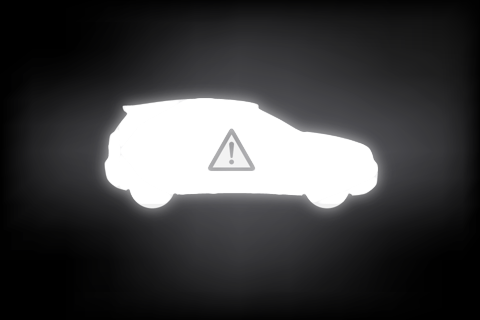
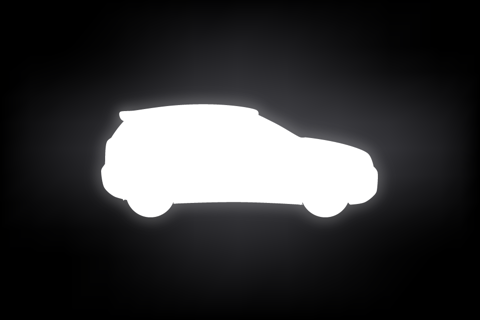
Con las nuevas imagenes de ram

diff --git a/ios/app/controllers/driver_controller.rb b/ios/app/controllers/driver_controller.rb
@@ -1,9 +1,14 @@
 class DriverController < UIViewController
 
-  PLAY_IMAGE = "play1.png"
+  PLAY_IMAGE = "play.png"
   WARNING1_IMAGE = "warning.png"
   WARNING2_IMAGE = "warning2.png"
   PAUSE_IMAGE = "pause.png"
+
+  BG_PLAY_IMAGE = "bgPlay.png"
+  BG_WARNING1_IMAGE = "bgWarning.png"
+  BG_WARNING2_IMAGE = "bgWarning2.png"
+  BG_PAUSE_IMAGE = "bgPause.png"
 
 
   def viewDidLoad
@@ -21,7 +26,7 @@ class DriverController < UIViewController
     @temp_distance = 0
   end
 
-  def paint_scores
+  def paintScores
     @level_label.text = @temp_score.to_s
     @score_label.text = @total_score.to_s
 
@@ -29,13 +34,37 @@ class DriverController < UIViewController
     animate_to_next_point @score_view, @temp_score
   end
 
+  def getColor(modus, type)
+    case modus
+      when "Play"
+        result = (type=="Mask") ? UIColor.alloc.initWithPatternImage(UIImage.imageNamed(PLAY_IMAGE)) : UIColor.alloc.initWithPatternImage(UIImage.imageNamed(BG_PLAY_IMAGE))
+      when "Pause"
+        result = (type=="Mask") ? UIColor.alloc.initWithPatternImage(UIImage.imageNamed(PAUSE_IMAGE)) : UIColor.alloc.initWithPatternImage(UIImage.imageNamed(BG_PAUSE_IMAGE))
+      when "Warning1"
+        result = (type=="Mask") ? UIColor.alloc.initWithPatternImage(UIImage.imageNamed(WARNING1_IMAGE)) : UIColor.alloc.initWithPatternImage(UIImage.imageNamed(BG_WARNING1_IMAGE))
+      when "Warning2"
+        result = (type=="Mask") ? UIColor.alloc.initWithPatternImage(UIImage.imageNamed(WARNING2_IMAGE)) : UIColor.alloc.initWithPatternImage(UIImage.imageNamed(BG_WARNING2_IMAGE))
+      
+    end
+    result
+  end
+
   def changeColors(level)
+    p level.to_s
     if level > 5 && level <= 10
-      @car_view.backgroundColor = UIColor.alloc.initWithPatternImage(UIImage.imageNamed(WARNING1_IMAGE))
+      @car_view.backgroundColor = getColor("Warning1", "Mask")
+      @level_view.backgroundColor = getColor("Warning1", "Background")
+      @state_icon.image = UIImage.imageNamed("icnWarning.png")
+      @state_icon.setHidden(0)
     elsif level > 10
-      @car_view.backgroundColor = UIColor.alloc.initWithPatternImage(UIImage.imageNamed(WARNING2_IMAGE))
+      @car_view.backgroundColor = getColor("Warning2", "Mask")
+      @level_view.backgroundColor = getColor("Warning2", "Background")
+      @state_icon.image = UIImage.imageNamed("icnWarning.png")
+      @state_icon.setHidden(0)
     else
-      @car_view.backgroundColor = UIColor.alloc.initWithPatternImage(UIImage.imageNamed(PLAY_IMAGE))
+      @car_view.backgroundColor = getColor("Play", "Mask")
+      @level_view.backgroundColor = getColor("Play", "Background")
+      @state_icon.setHidden(1)
     end
   end
 
@@ -52,7 +81,7 @@ class DriverController < UIViewController
         @temp_score = 0
       end
 
-      paint_scores
+      paintScores
 
     end
   end
@@ -67,7 +96,7 @@ class DriverController < UIViewController
         @temp_score -= notification.object.level
       end
 
-      paint_scores
+      paintScores
 
       @accelerate_label.text = notification.object.level.to_s
 
@@ -79,7 +108,9 @@ class DriverController < UIViewController
   def touchesEnded(touches, withEvent:event)
     if @engine.status == 1
       @engine.pause
-      @car_view.backgroundColor = UIColor.alloc.initWithPatternImage(UIImage.imageNamed(PAUSE_IMAGE))
+      @car_view.backgroundColor = getColor("Pause", "Mask")
+      @level_view.backgroundColor = getColor("Pause", "Background")
+      @state_icon.setImage = UIImage.imageNamed("icnPause.png")
       @time_label.textColor = UIColor.whiteColor
       @km_label.textColor = UIColor.whiteColor
       @level_label.textColor = UIColor.clearColor
@@ -87,7 +118,9 @@ class DriverController < UIViewController
       @time_label.text = @engine.getTotalDistance
     elsif @engine.status == 0
       @engine.start
-      @car_view.backgroundColor = UIColor.alloc.initWithPatternImage(UIImage.imageNamed(PLAY_IMAGE))
+      @car_view.backgroundColor = getColor("Play", "Mask")
+      @level_view.backgroundColor = getColor("Play", "Background")
+      @state_icon.image = nil
       @time_label.textColor = UIColor.clearColor
       @km_label.textColor = UIColor.clearColor
       @level_label.textColor = UIColor.whiteColor
@@ -99,6 +132,7 @@ class DriverController < UIViewController
   end
 
   def clickStartButton
+    changeColors(12)
     if @engine.status == -1
       initialize_scores
       @engine.start
@@ -131,17 +165,17 @@ class DriverController < UIViewController
     self.view.backgroundColor = UIColor.blackColor
 
     @level_view = UIView.alloc.initWithFrame [[0, 215], [400, 400]]
-    @level_view.backgroundColor = UIColor.yellowColor
+    @level_view.backgroundColor = getColor("Play", "Background")
 
     self.view.addSubview(@level_view)
 
     @score_view = UIView.alloc.initWithFrame [[0, 215], [400, 400]]
-    @score_view.backgroundColor = UIColor.blueColor
+    @score_view.backgroundColor = UIColor.grayColor
 
     self.view.addSubview(@score_view)
 
     @car_view = UIView.alloc.initWithFrame [[0, 0], [480, 320]]
-    @car_view.backgroundColor = UIColor.alloc.initWithPatternImage(UIImage.imageNamed(PLAY_IMAGE))
+    @car_view.backgroundColor = getColor("Play", "Mask")
 
     self.view.addSubview(@car_view)
 
@@ -152,7 +186,7 @@ class DriverController < UIViewController
     @accelerate_label.textColor = UIColor.whiteColor
     @accelerate_label.backgroundColor = UIColor.clearColor
     @accelerate_label.frame = [[20, 20], [150, 30]]
-    self.view.addSubview(@accelerate_label)
+    @car_view.addSubview(@accelerate_label)
 
     @level_label = UILabel.new
     @level_label.font = UIFont.fontWithName("Futura-CondensedExtraBold", size:40)
@@ -161,7 +195,7 @@ class DriverController < UIViewController
     @level_label.textColor = UIColor.whiteColor
     @level_label.backgroundColor = UIColor.clearColor
     @level_label.frame = [[160, 150], [150, 34]]
-    self.view.addSubview(@level_label)
+    @car_view.addSubview(@level_label)
 
     @score_label = UILabel.new
     @score_label.font = UIFont.fontWithName("Futura-CondensedExtraBold", size:40)
@@ -170,7 +204,7 @@ class DriverController < UIViewController
     @score_label.textColor = UIColor.whiteColor
     @score_label.backgroundColor = UIColor.clearColor
     @score_label.frame = [[160, 250], [150, 34]]
-    self.view.addSubview(@score_label)
+    @car_view.addSubview(@score_label)
 
     @km_label = UILabel.new
     @km_label.font = UIFont.fontWithName("Futura-CondensedExtraBold", size:40)
@@ -179,7 +213,7 @@ class DriverController < UIViewController
     @km_label.textColor = UIColor.clearColor
     @km_label.backgroundColor = UIColor.clearColor
     @km_label.frame = [[20, 250], [150, 34]]
-    self.view.addSubview(@km_label)
+    @car_view.addSubview(@km_label)
 
     @time_label = UILabel.new
     @time_label.font = UIFont.fontWithName("Futura-CondensedExtraBold", size:40)
@@ -188,19 +222,23 @@ class DriverController < UIViewController
     @time_label.textColor = UIColor.clearColor
     @time_label.backgroundColor = UIColor.clearColor
     @time_label.frame = [[300, 250], [150, 34]]
-    self.view.addSubview(@time_label)
+    @car_view.addSubview(@time_label)
 
     @startButton = UIButton.buttonWithType(UIButtonTypeRoundedRect)
-    @startButton.frame = [[350, 25],[45, 35]]
+    @startButton.frame = [[350, 100],[35, 35]]
     @startButton.addTarget(self, action: :clickStartButton, forControlEvents: UIControlEventTouchUpInside)
-    self.view.addSubview(@startButton)
+    @car_view.addSubview(@startButton)
 
     @buttonMap = UIButton.buttonWithType(UIButtonTypeRoundedRect)
     @buttonMap.frame = [[10, 25],[20, 20]]
-
     @buttonMap.addTarget(self, action: :clickShowMap, forControlEvents: UIControlEventTouchUpInside)
+    @car_view.addSubview(@buttonMap)
 
-    self.view.addSubview(@buttonMap)
+    @state_icon = UIImageView.alloc.initWithFrame([[350, 20], [81, 81]])
+    @state_icon.image = UIImage.imageNamed("icnPause.png")
+    @state_icon.setHidden(0)
+    @car_view.addSubview(@stateIcon)
+    
   end
 
   def shouldAutorotateToInterfaceOrientation(orientation)
